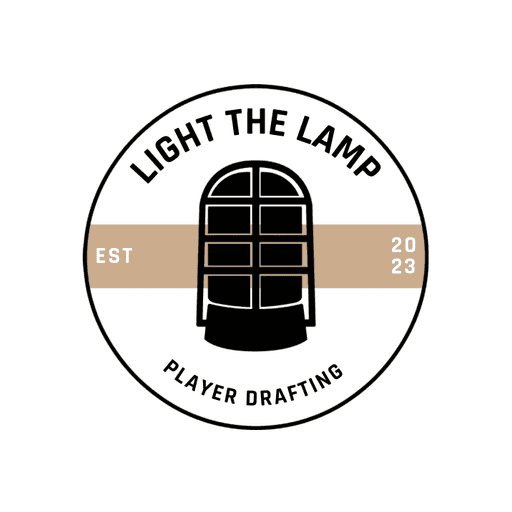
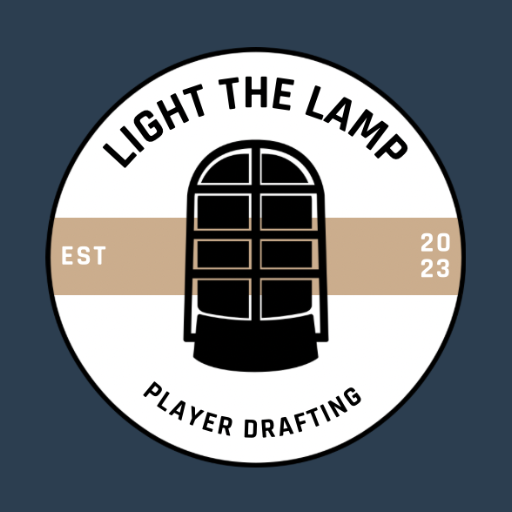
different maskable?

diff --git a/frontend-react/dist/sw.js b/frontend-react/dist/sw.js
@@ -1,1 +1,1 @@
-if(!self.define){let e,i={};const n=(n,s)=>(n=new URL(n+".js",s).href,i[n]||new Promise((i=>{if("document"in self){const e=document.createElement("script");e.src=n,e.onload=i,document.head.appendChild(e)}else e=n,importScripts(n),i()})).then((()=>{let e=i[n];if(!e)throw new Error(`Module ${n} didn’t register its module`);return e})));self.define=(s,r)=>{const c=e||("document"in self?document.currentScript.src:"")||location.href;if(i[c])return;let o={};const t=e=>n(e,c),d={module:{uri:c},exports:o,require:t};i[c]=Promise.all(s.map((e=>d[e]||t(e)))).then((e=>(r(...e),o)))}}define(["./workbox-5ffe50d4"],(function(e){"use strict";self.skipWaiting(),e.clientsClaim(),e.precacheAndRoute([{url:"assets/index-BwRTELk-.css",revision:null},{url:"assets/index-DbKgjMmJ.js",revision:null},{url:"firebase-messaging-sw.js",revision:"5890d71b0aabca31a999e68d1c63f24d"},{url:"index.html",revision:"f3866243d0b5ecbd34c9d946174c134b"},{url:"registerSW.js",revision:"1872c500de691dce40960bb85481de07"},{url:"apple-touch-icon-180x180.png",revision:"91a3c4a31bbcc9b39aac1641e5c328e4"},{url:"favicon.ico",revision:"d78cebea22578da73cdea82dcc727048"},{url:"maskable-icon-512x512.png",revision:"b3e0f438406225ff6453e21e659cf815"},{url:"pwa-192x192.png",revision:"74d771373026387f64acee1b29512c4a"},{url:"pwa-512x512.png",revision:"e39408923a9e949c0b0bf366c279b2c4"},{url:"pwa-64x64.png",revision:"67393870bd4df1e473a5b780b9659eec"},{url:"manifest.webmanifest",revision:"c69e96c38f3ed17b621f2e6a288cf1e8"}],{}),e.cleanupOutdatedCaches(),e.registerRoute(new e.NavigationRoute(e.createHandlerBoundToURL("index.html")))}));
+if(!self.define){let e,i={};const n=(n,s)=>(n=new URL(n+".js",s).href,i[n]||new Promise((i=>{if("document"in self){const e=document.createElement("script");e.src=n,e.onload=i,document.head.appendChild(e)}else e=n,importScripts(n),i()})).then((()=>{let e=i[n];if(!e)throw new Error(`Module ${n} didn’t register its module`);return e})));self.define=(s,r)=>{const c=e||("document"in self?document.currentScript.src:"")||location.href;if(i[c])return;let o={};const d=e=>n(e,c),t={module:{uri:c},exports:o,require:d};i[c]=Promise.all(s.map((e=>t[e]||d(e)))).then((e=>(r(...e),o)))}}define(["./workbox-5ffe50d4"],(function(e){"use strict";self.skipWaiting(),e.clientsClaim(),e.precacheAndRoute([{url:"assets/index-BwRTELk-.css",revision:null},{url:"assets/index-DbKgjMmJ.js",revision:null},{url:"firebase-messaging-sw.js",revision:"5890d71b0aabca31a999e68d1c63f24d"},{url:"index.html",revision:"f3866243d0b5ecbd34c9d946174c134b"},{url:"registerSW.js",revision:"1872c500de691dce40960bb85481de07"},{url:"apple-touch-icon-180x180.png",revision:"91a3c4a31bbcc9b39aac1641e5c328e4"},{url:"favicon.ico",revision:"d78cebea22578da73cdea82dcc727048"},{url:"maskable-icon-512x512.png",revision:"f0f05d437e6c716ea24538e7f30f7d2a"},{url:"pwa-192x192.png",revision:"74d771373026387f64acee1b29512c4a"},{url:"pwa-512x512.png",revision:"e39408923a9e949c0b0bf366c279b2c4"},{url:"pwa-64x64.png",revision:"67393870bd4df1e473a5b780b9659eec"},{url:"manifest.webmanifest",revision:"c69e96c38f3ed17b621f2e6a288cf1e8"}],{}),e.cleanupOutdatedCaches(),e.registerRoute(new e.NavigationRoute(e.createHandlerBoundToURL("index.html")))}));
